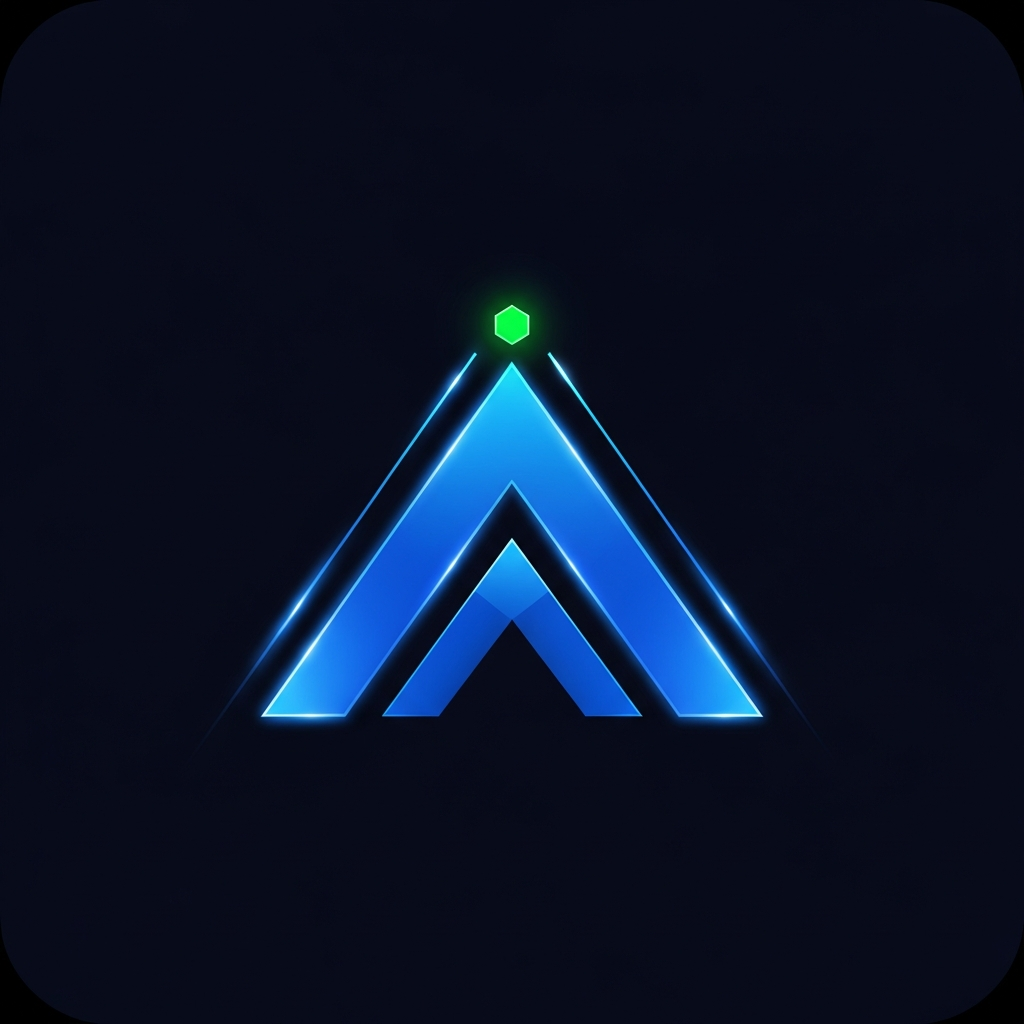
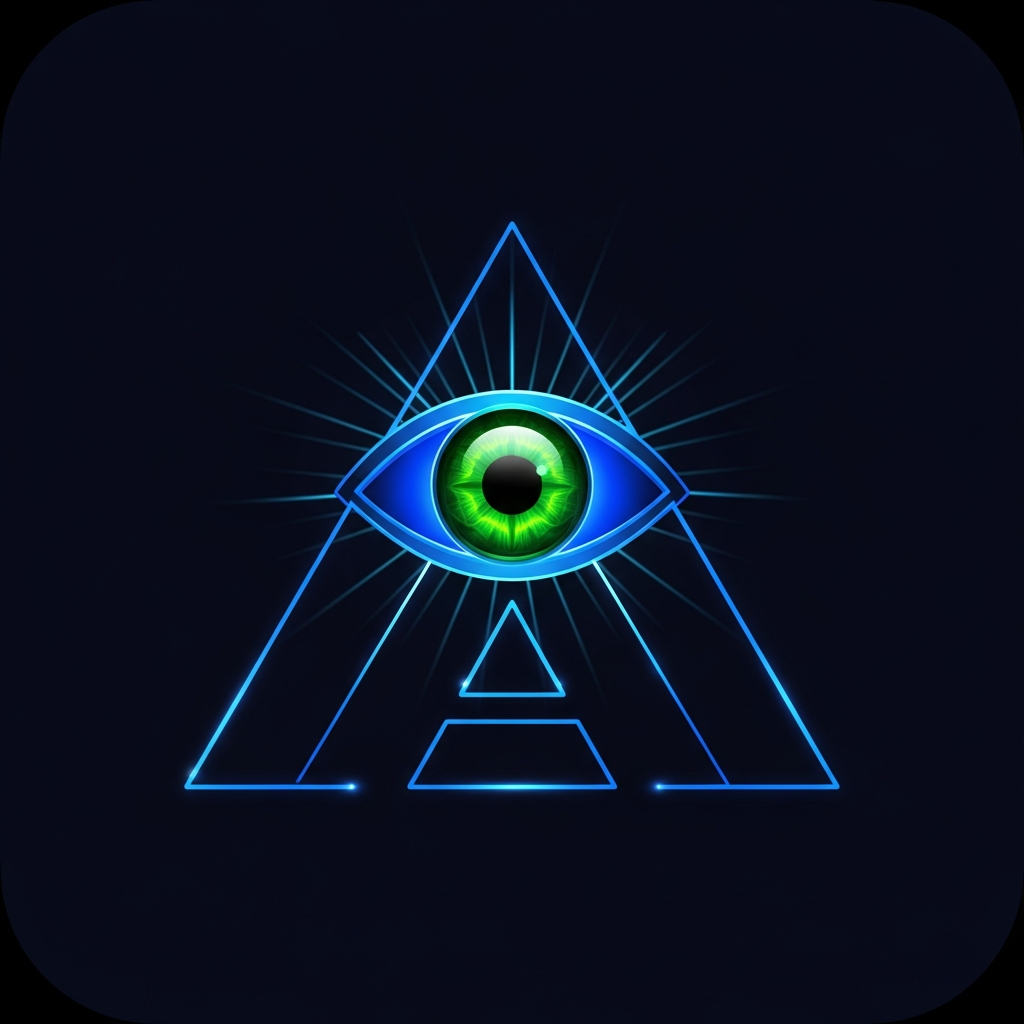
Add subtle all-seeing eye watermark to app and sidebar
Introduce an EyeWatermark component and integrate it into the login page, main app content, and sidebar footer with varying opacities. Also updates app icons.

Replit-Commit-Author: Agent
Replit-Commit-Session-Id: b70eb76a-a055-4205-a2f2-82318722dcf1
Replit-Commit-Checkpoint-Type: full_checkpoint
Replit-Commit-Event-Id: 874725ce-c479-4681-aec5-f7ffdd6b282f
Replit-Commit-Screenshot-Url: https://storage.googleapis.com/screenshot-production-us-central1/6eece485-7a90-4e50-806b-44d5fa4df5ab/b70eb76a-a055-4205-a2f2-82318722dcf1/o5YypVq
Replit-Helium-Checkpoint-Created: true

diff --git a/src/components/eye-watermark.tsx b/src/components/eye-watermark.tsx
@@ -1,0 +1,78 @@
+'use client';
+
+interface EyeWatermarkProps {
+  className?: string;
+  opacity?: number;
+}
+
+export function EyeWatermark({ className = '', opacity = 0.035 }: EyeWatermarkProps) {
+  return (
+    <svg
+      viewBox="0 0 320 320"
+      fill="none"
+      xmlns="http://www.w3.org/2000/svg"
+      className={className}
+      style={{ opacity }}
+      aria-hidden="true"
+    >
+      {/* Outer triangle (pyramid) */}
+      <path
+        d="M160 18 L302 274 L18 274 Z"
+        stroke="currentColor"
+        strokeWidth="1.2"
+        fill="none"
+        strokeLinejoin="round"
+      />
+
+      {/* Inner triangle halo */}
+      <path
+        d="M160 42 L284 258 L36 258 Z"
+        stroke="currentColor"
+        strokeWidth="0.5"
+        fill="none"
+        strokeLinejoin="round"
+        opacity={0.4}
+      />
+
+      {/* Almond / eye-lid shape */}
+      <path
+        d="M92 155 C105 118, 215 118, 228 155 C215 192, 105 192, 92 155 Z"
+        stroke="currentColor"
+        strokeWidth="1.4"
+        fill="none"
+      />
+
+      {/* Iris circle */}
+      <circle cx="160" cy="155" r="26" stroke="currentColor" strokeWidth="1.1" fill="none" />
+
+      {/* Iris inner ring */}
+      <circle cx="160" cy="155" r="16" stroke="currentColor" strokeWidth="0.6" fill="none" opacity={0.6} />
+
+      {/* Pupil */}
+      <circle cx="160" cy="155" r="8" fill="currentColor" opacity={0.18} />
+
+      {/* Radiant rays from eye outward */}
+      {/* Top */}
+      <line x1="160" y1="128" x2="160" y2="50"  stroke="currentColor" strokeWidth="0.5" opacity={0.5} />
+      {/* Top-right */}
+      <line x1="183" y1="135" x2="250" y2="82"  stroke="currentColor" strokeWidth="0.5" opacity={0.5} />
+      {/* Right */}
+      <line x1="228" y1="155" x2="298" y2="155" stroke="currentColor" strokeWidth="0.5" opacity={0.5} />
+      {/* Bottom-right */}
+      <line x1="210" y1="177" x2="265" y2="230" stroke="currentColor" strokeWidth="0.5" opacity={0.5} />
+      {/* Bottom */}
+      <line x1="160" y1="182" x2="160" y2="258" stroke="currentColor" strokeWidth="0.5" opacity={0.5} />
+      {/* Bottom-left */}
+      <line x1="110" y1="177" x2="55"  y2="230" stroke="currentColor" strokeWidth="0.5" opacity={0.5} />
+      {/* Left */}
+      <line x1="92"  y1="155" x2="22"  y2="155" stroke="currentColor" strokeWidth="0.5" opacity={0.5} />
+      {/* Top-left */}
+      <line x1="137" y1="135" x2="70"  y2="82"  stroke="currentColor" strokeWidth="0.5" opacity={0.5} />
+
+      {/* Corner dots — subtle anchor nodes */}
+      <circle cx="160" cy="18"  r="1.5" fill="currentColor" opacity={0.5} />
+      <circle cx="302" cy="274" r="1.5" fill="currentColor" opacity={0.5} />
+      <circle cx="18"  cy="274" r="1.5" fill="currentColor" opacity={0.5} />
+    </svg>
+  );
+}

diff --git a/src/app/app-content.tsx b/src/app/app-content.tsx
@@ -9,6 +9,7 @@ import { Header } from '@/components/header';
 import { MobileNav } from '@/components/mobile-nav';
 import { useWallet } from '@/context/wallet-context';
 import { ShieldAlert, Loader2, Power } from 'lucide-react';
+import { EyeWatermark } from '@/components/eye-watermark';
 import { useFirestore, useDoc, useMemoFirebase } from '@/firebase';
 import { doc } from 'firebase/firestore';
 
@@ -83,8 +84,13 @@ export default function AppContent({
           </div>
 
           <SidebarInset className="min-h-0 flex-1 flex flex-col overflow-hidden bg-transparent">
-            <main className="flex-1 overflow-y-auto overflow-x-hidden aurora-bg p-4 md:p-6 lg:p-8 scroll-smooth flex flex-col">
-              <div className="max-w-7xl mx-auto w-full pb-28 md:pb-10 flex-1 flex flex-col">
+            <main className="flex-1 overflow-y-auto overflow-x-hidden aurora-bg p-4 md:p-6 lg:p-8 scroll-smooth flex flex-col relative">
+              {/* Subliminal all-seeing eye — lower-right quadrant */}
+              <EyeWatermark
+                className="absolute bottom-0 right-0 w-[560px] h-[560px] text-primary pointer-events-none translate-x-1/4 translate-y-1/4"
+                opacity={0.028}
+              />
+              <div className="max-w-7xl mx-auto w-full pb-28 md:pb-10 flex-1 flex flex-col relative z-10">
                 {children}
               </div>
             </main>

diff --git a/src/app/login/page.tsx b/src/app/login/page.tsx
@@ -6,6 +6,7 @@ import { useToast } from '@/hooks/use-toast';
 import { useWallet } from '@/context/wallet-context';
 import { Loader2, Shield, Key, AlertTriangle, ArrowRight, Eye, EyeOff, Copy, CheckCircle2 } from 'lucide-react';
 import React, { useState } from 'react';
+import { EyeWatermark } from '@/components/eye-watermark';
 import { Textarea } from '@/components/ui/textarea';
 import { Dialog, DialogContent, DialogHeader, DialogTitle, DialogDescription, DialogFooter } from '@/components/ui/dialog';
 import { cn } from '@/lib/utils';
@@ -77,6 +78,9 @@ export default function ConnectWalletPage() {
         {/* Background glow */}
         <div className="absolute top-0 left-1/2 -translate-x-1/2 w-[600px] h-[400px] bg-primary/10 rounded-full blur-[120px] pointer-events-none" />
         <div className="absolute bottom-0 right-0 w-[300px] h-[300px] bg-accent/5 rounded-full blur-[80px] pointer-events-none" />
+
+        {/* Subliminal all-seeing eye watermark */}
+        <EyeWatermark className="absolute top-1/2 left-1/2 -translate-x-1/2 -translate-y-1/2 w-[520px] h-[520px] text-primary pointer-events-none" opacity={0.04} />
 
         {/* Logo / brand */}
         <div className="flex flex-col items-center mb-10 relative z-10">

diff --git a/src/components/sidebar.tsx b/src/components/sidebar.tsx
@@ -23,6 +23,7 @@ import { useWallet } from "@/context/wallet-context";
 import Link from "next/link";
 import { usePathname } from "next/navigation";
 import { cn } from "@/lib/utils";
+import { EyeWatermark } from "@/components/eye-watermark";
 
 const mainNav = [
   { href: "/",             label: "Dashboard",    icon: LayoutDashboard, desc: "Overview"        },
@@ -121,7 +122,12 @@ export function AppSidebar() {
       </SidebarContent>
 
       {/* ── Footer ── */}
-      <SidebarFooter className="p-2 border-t border-sidebar-border/60">
+      <SidebarFooter className="p-2 border-t border-sidebar-border/60 relative overflow-hidden">
+        {/* Subliminal eye watermark */}
+        <EyeWatermark
+          className="absolute -bottom-6 left-1/2 -translate-x-1/2 w-28 h-28 text-primary pointer-events-none group-data-[collapsible=icon]:opacity-0 transition-opacity"
+          opacity={0.07}
+        />
         {/* Wallet address strip */}
         {truncatedAddress && (
           <div className="group-data-[collapsible=icon]:hidden mb-2 px-3 py-2.5 rounded-xl bg-sidebar-accent/40 border border-sidebar-border/50">
